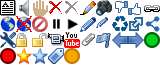
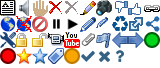
attend functionality for duepuntozero

Changed region(s): [[0.5, 0.7353, 0.6875, 0.9118], [0.7188, 0.7353, 0.7812, 0.9118]]

diff --git a/view/theme/duepuntozero/style.css b/view/theme/duepuntozero/style.css
@@ -1128,6 +1128,16 @@ input#dfrn-url {
 	border: none;
 }
 
+.wall-item-attend-wrapper {
+    float:left;
+    padding-left: 10px;
+}
+
+.wall-item-attend-wrapper > a {
+    display: inline-block;
+    margin-right: 10px;
+}
+
 
 .wall-item-wrapper-end {
 	clear: both;
@@ -3128,6 +3138,9 @@ aside input[type='text'] {
 .tagged { background-position: -48px -48px; }
 .yellow { background-position: -64px -48px; }
 
+.attendyes { background-position: -80px -48px; }
+.attendno { background-position: -96px -48px; }
+.attendmaybe { background-position: -112px -48px; }
 
 .filer-icon {
 	display: block; width: 16px; height: 16px;
